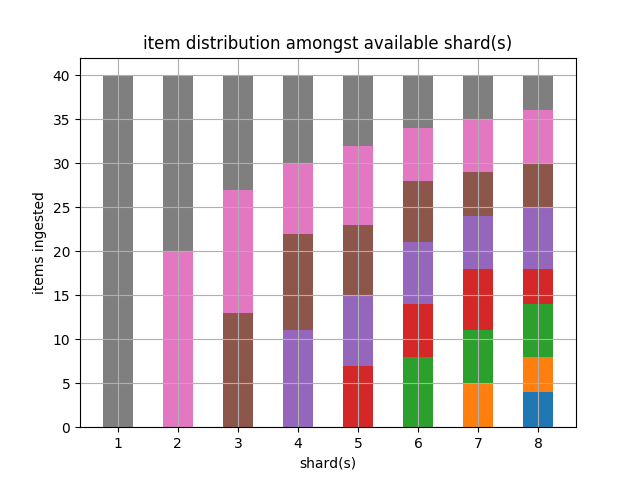
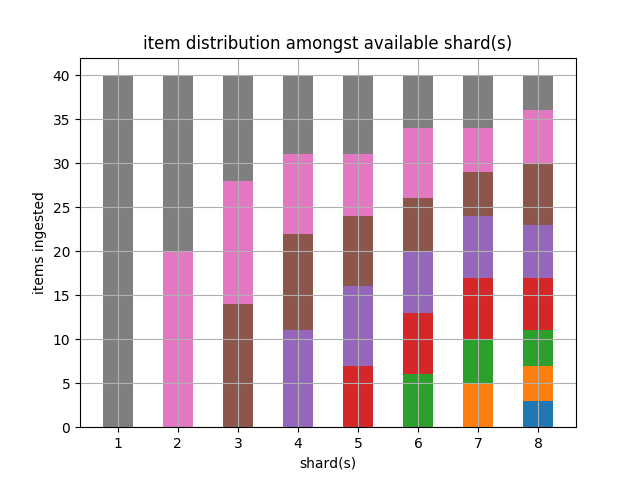
wip

diff --git a/test/graphs/test_worst_case_scenario.py b/test/graphs/test_worst_case_scenario.py
@@ -12,8 +12,8 @@ ingest_balancer = [
      'name': 'xqa-ingest-balancer',
      'command': ['-message_broker_host', 'xqa-message-broker',
                  '-pool_size', '%s' % INGEST_THREADS,
-                 '-insert_thread_wait', '1000',
-                 '-insert_thread_secondary_wait', '2000'],
+                 '-insert_thread_wait', '60000',
+                 '-insert_thread_secondary_wait', '1000'],
      'network': 'xqa'},
 ]
 

diff --git a/test/graphs/test_2_ingest_workers.py b/test/graphs/test_2_ingest_workers.py
@@ -13,7 +13,7 @@ ingest_balancer = [
      'name': 'xqa-ingest-balancer',
      'command': ['-message_broker_host', 'xqa-message-broker',
                  '-pool_size', '%s' % INGEST_THREADS,
-                 '-insert_thread_wait', '1000',
+                 '-insert_thread_wait', '60000',
                  '-insert_thread_secondary_wait', '1000'],
      'network': 'xqa'},
 ]

diff --git a/test/graphs/test_4_ingest_workers.py b/test/graphs/test_4_ingest_workers.py
@@ -13,7 +13,7 @@ ingest_balancer = [
      'name': 'xqa-ingest-balancer',
      'command': ['-message_broker_host', 'xqa-message-broker',
                  '-pool_size', '%s' % INGEST_THREADS,
-                 '-insert_thread_wait', '1000',
+                 '-insert_thread_wait', '60000',
                  '-insert_thread_secondary_wait', '1000'],
      'network': 'xqa'},
 ]

diff --git a/test/graphs/test_8_ingest_workers.py b/test/graphs/test_8_ingest_workers.py
@@ -13,7 +13,7 @@ ingest_balancer = [
      'name': 'xqa-ingest-balancer',
      'command': ['-message_broker_host', 'xqa-message-broker',
                  '-pool_size', '%s' % INGEST_THREADS,
-                 '-insert_thread_wait', '1000',
+                 '-insert_thread_wait', '60000',
                  '-insert_thread_secondary_wait', '1000'],
      'network': 'xqa'},
 ]

diff --git a/src/xqa/perf.py b/src/xqa/perf.py
@@ -14,7 +14,6 @@ class UnableToDetermineFinishState(Exception):
 
 def wait_for_e2e_ingest_to_complete():
     _wait_for_service_to_complete('ingest')
-    _wait_for_service_to_complete('ingestbalancer')
     _wait_for_service_to_complete('shard')
 
 
